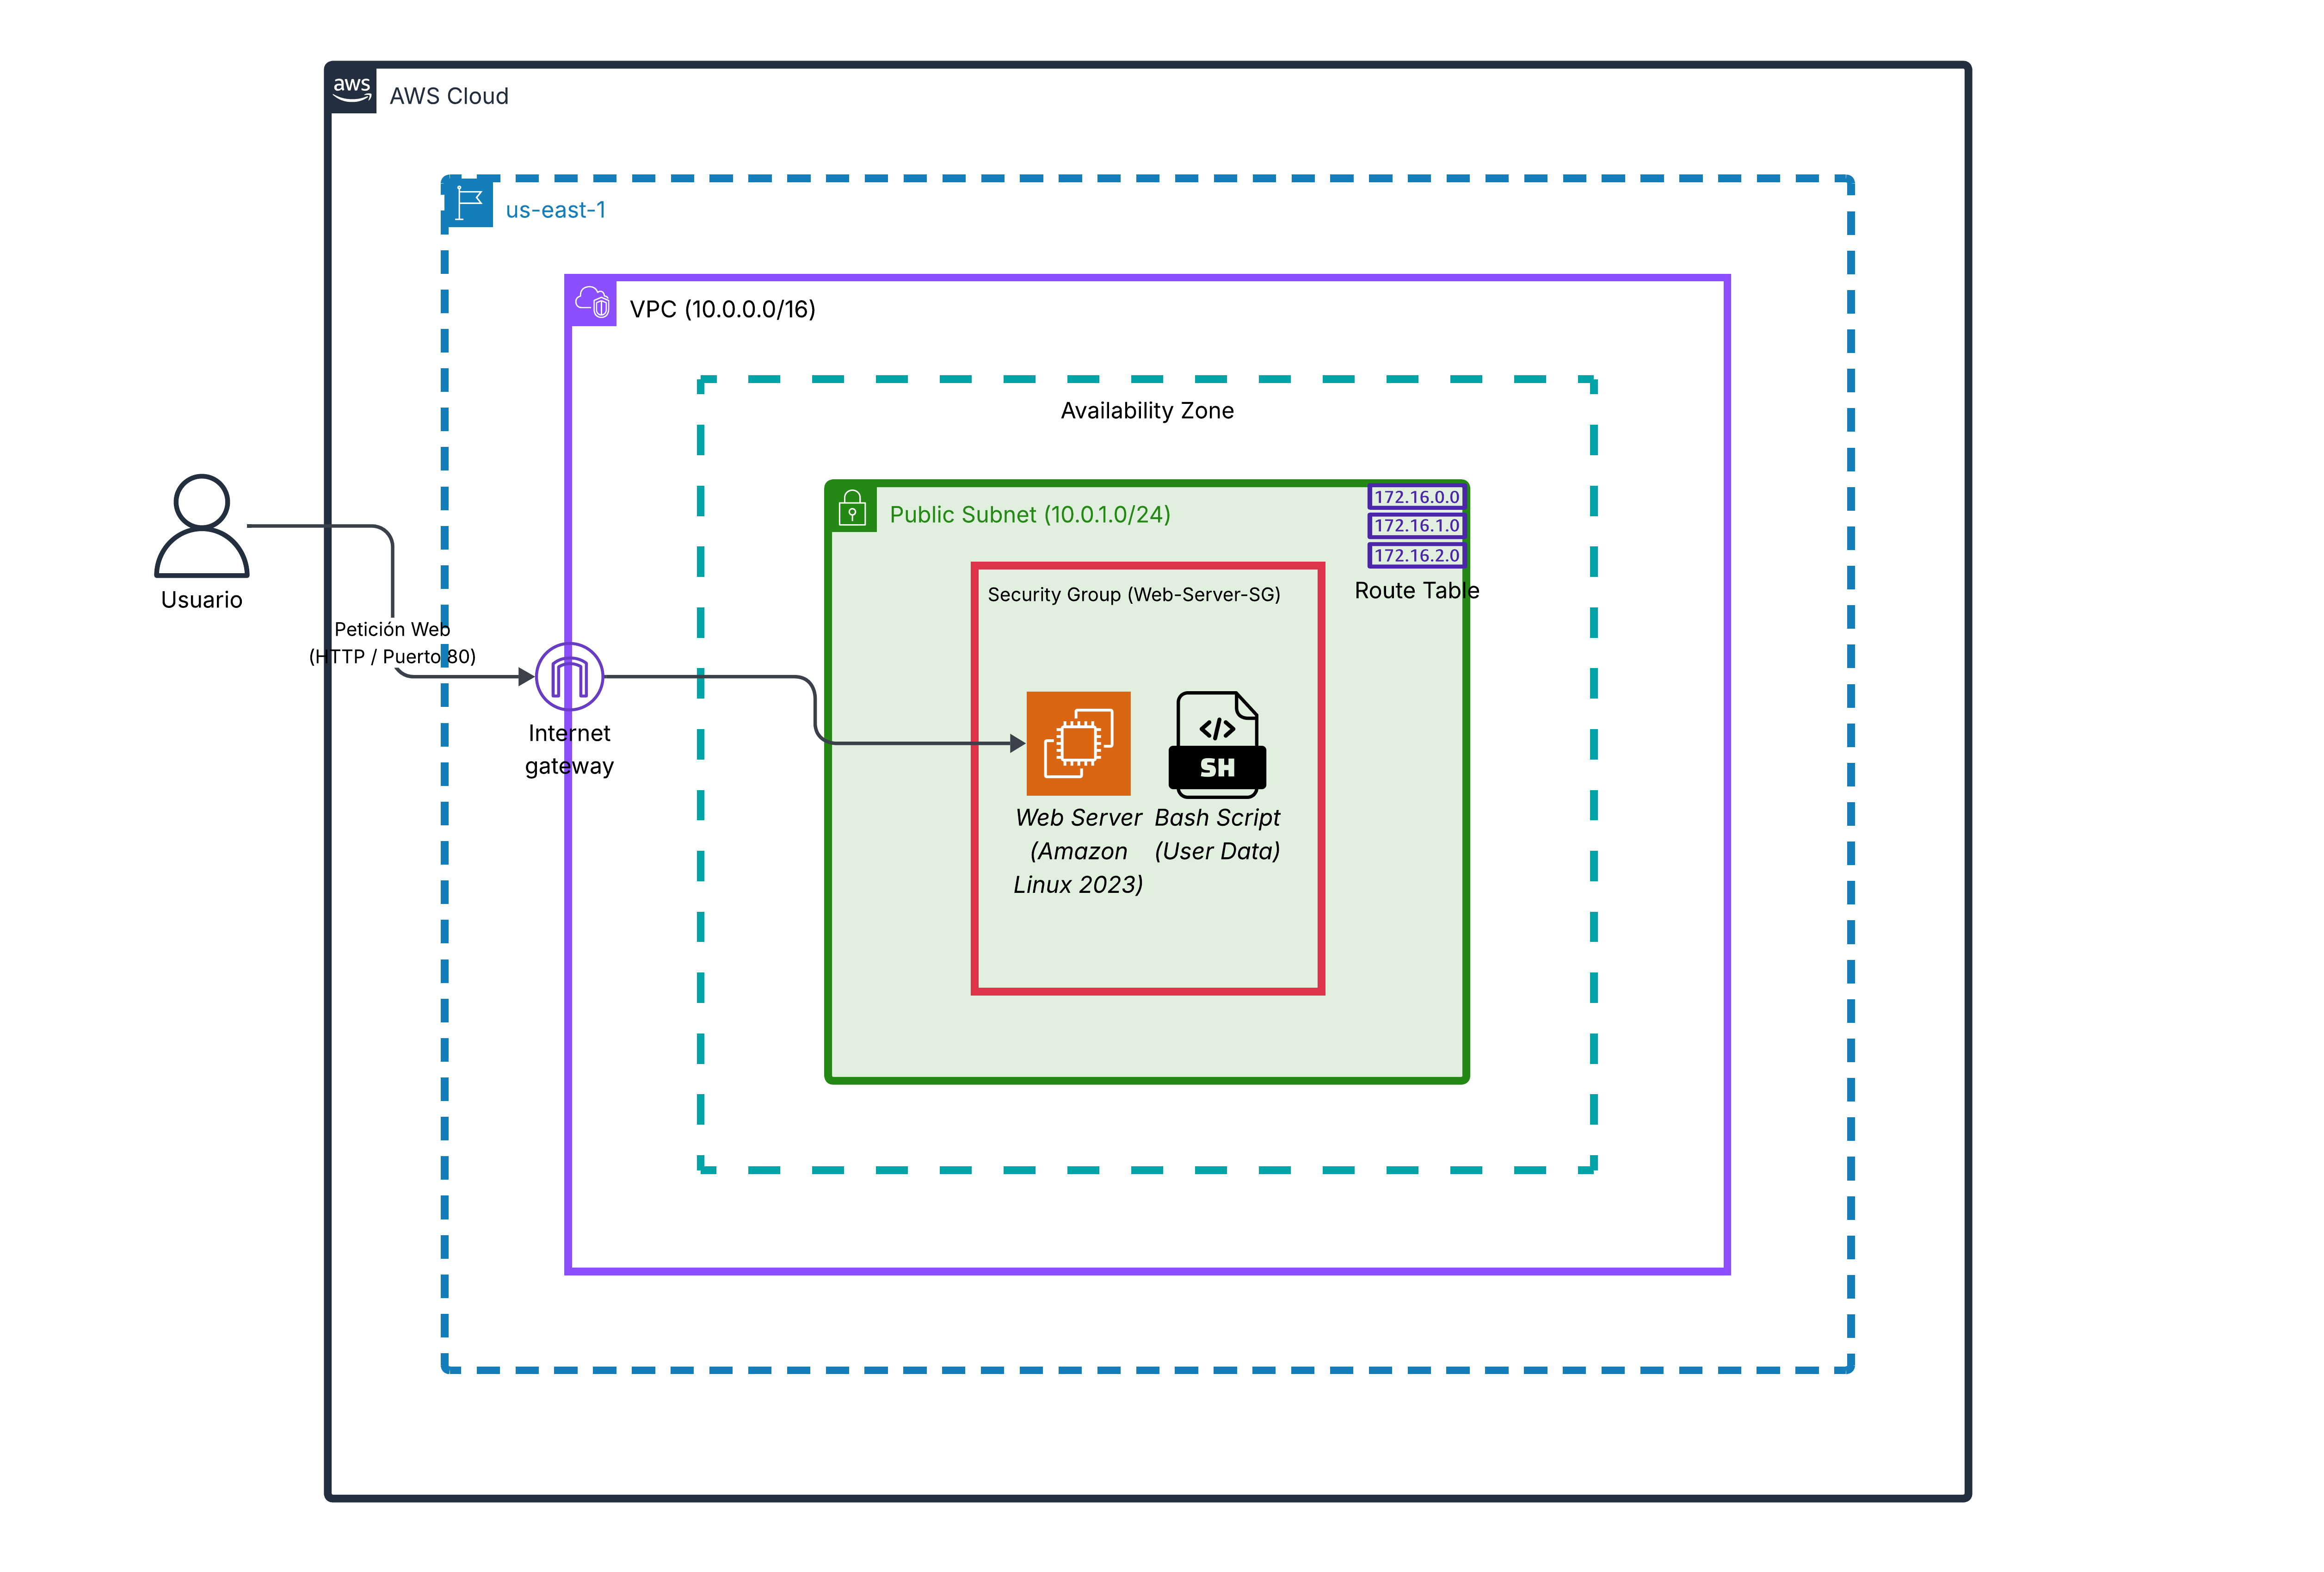
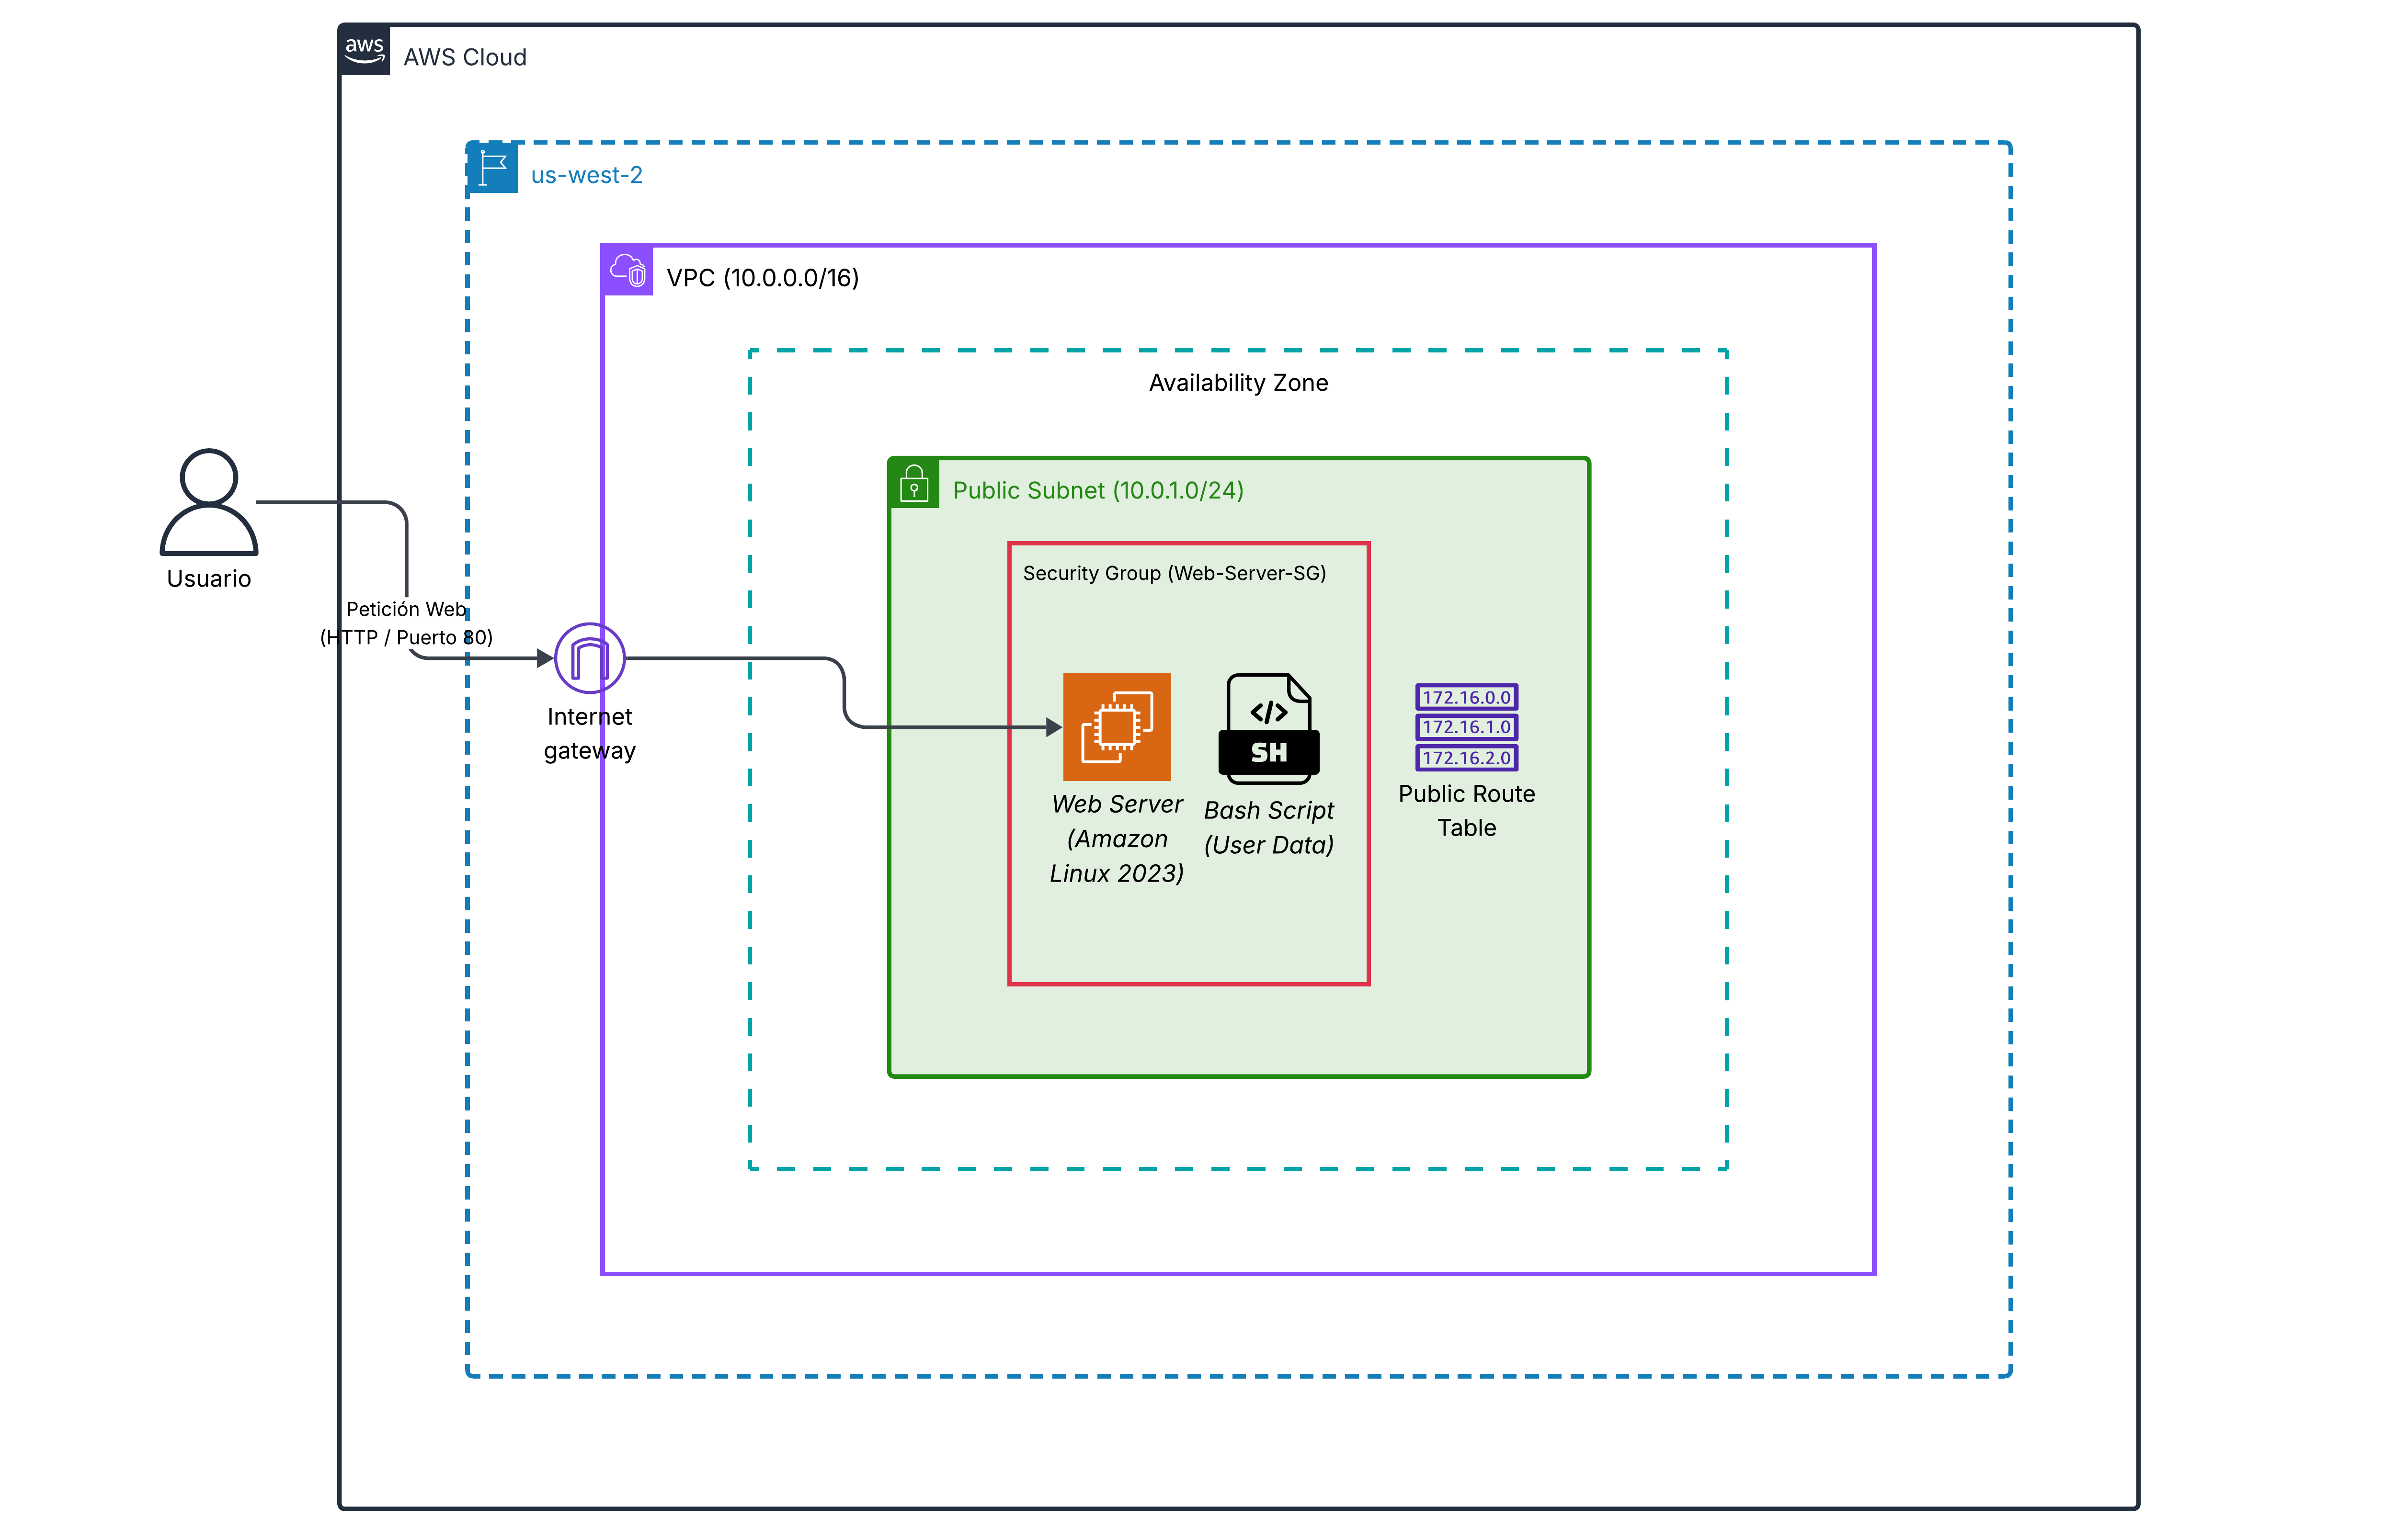
feat: add AWS project documentation link and update architecture project details

diff --git a/index.html b/index.html
@@ -409,7 +409,7 @@
                 <article class="project-card">
                     <div class="project-image">
                         <img src="assets/img/arquitectura-1.png" alt="Despliegue Automatizado de Servidores Web en AWS">
-                        <a href="#" class="project-overlay" aria-label="Ver Documentación">
+                        <a href="https://github.com/VitoNez5198/aws-automated-web-server" target="_blank" rel="noopener" class="project-overlay" aria-label="Ver Documentación">
                             <span class="material-symbols-outlined">description</span>
                         </a>
                     </div>
@@ -422,13 +422,15 @@
                             Diseño de una arquitectura de red aislada (VPC) y aprovisionamiento automático (bootstrapping) de un servidor web Apache sobre Amazon Linux utilizando scripts de automatización Bash. Reduce el tiempo de configuración inicial de infraestructura a cero.
                         </p>
                         <div class="project-tech">
-                            <span class="tech-tag">AWS (VPC, EC2, IGW)</span>
+                            <span class="tech-tag">AWS</span>
+                            <span class="tech-tag">VPC</span>
+                            <span class="tech-tag">EC2</span>
+                            <span class="tech-tag">IGW</span>
                             <span class="tech-tag">Bash</span>
                             <span class="tech-tag">Linux</span>
-                            <span class="tech-tag">Lucidchart</span>
                         </div>
                         <div class="project-links">
-                            <a href="#" class="btn-link">
+                            <a href="https://github.com/VitoNez5198/aws-automated-web-server" target="_blank" rel="noopener" class="btn-link">
                                 <span class="material-symbols-outlined">description</span>
                                 Ver Documentación
                             </a>
@@ -461,11 +463,11 @@
                     </div>
                     <div class="project-content">
                         <div class="project-header">
-                            <h3>[Nombre del Proyecto Cloud 2]</h3>
+                            <h3>[Proyecto en construccion]</h3>
                             <span class="project-type">AWS Cloud</span>
                         </div>
                         <p class="project-description">
-                            Descripción de ejemplo para tu proyecto de infraestructura en la nube. Explica la arquitectura implementada, los servicios core utilizados (como VPC, IAM, Route 53, etc.) y las mejores prácticas aplicadas en AWS.
+                            [Proyecto en construccion]
                         </p>
                         <div class="project-tech">
                             <span class="tech-tag">AWS</span>